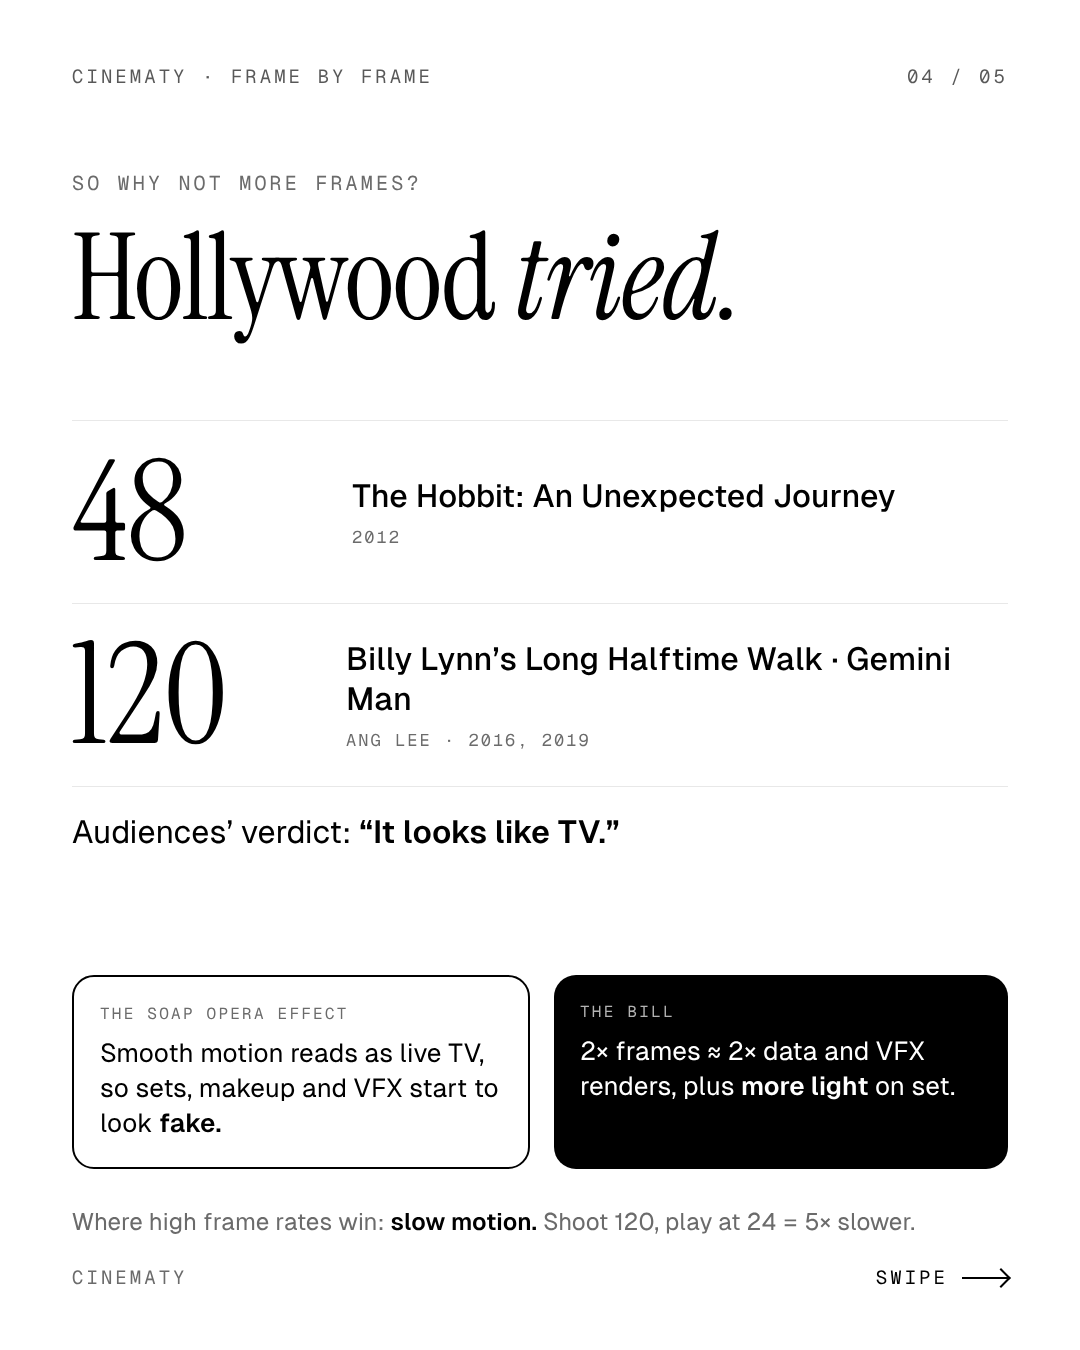
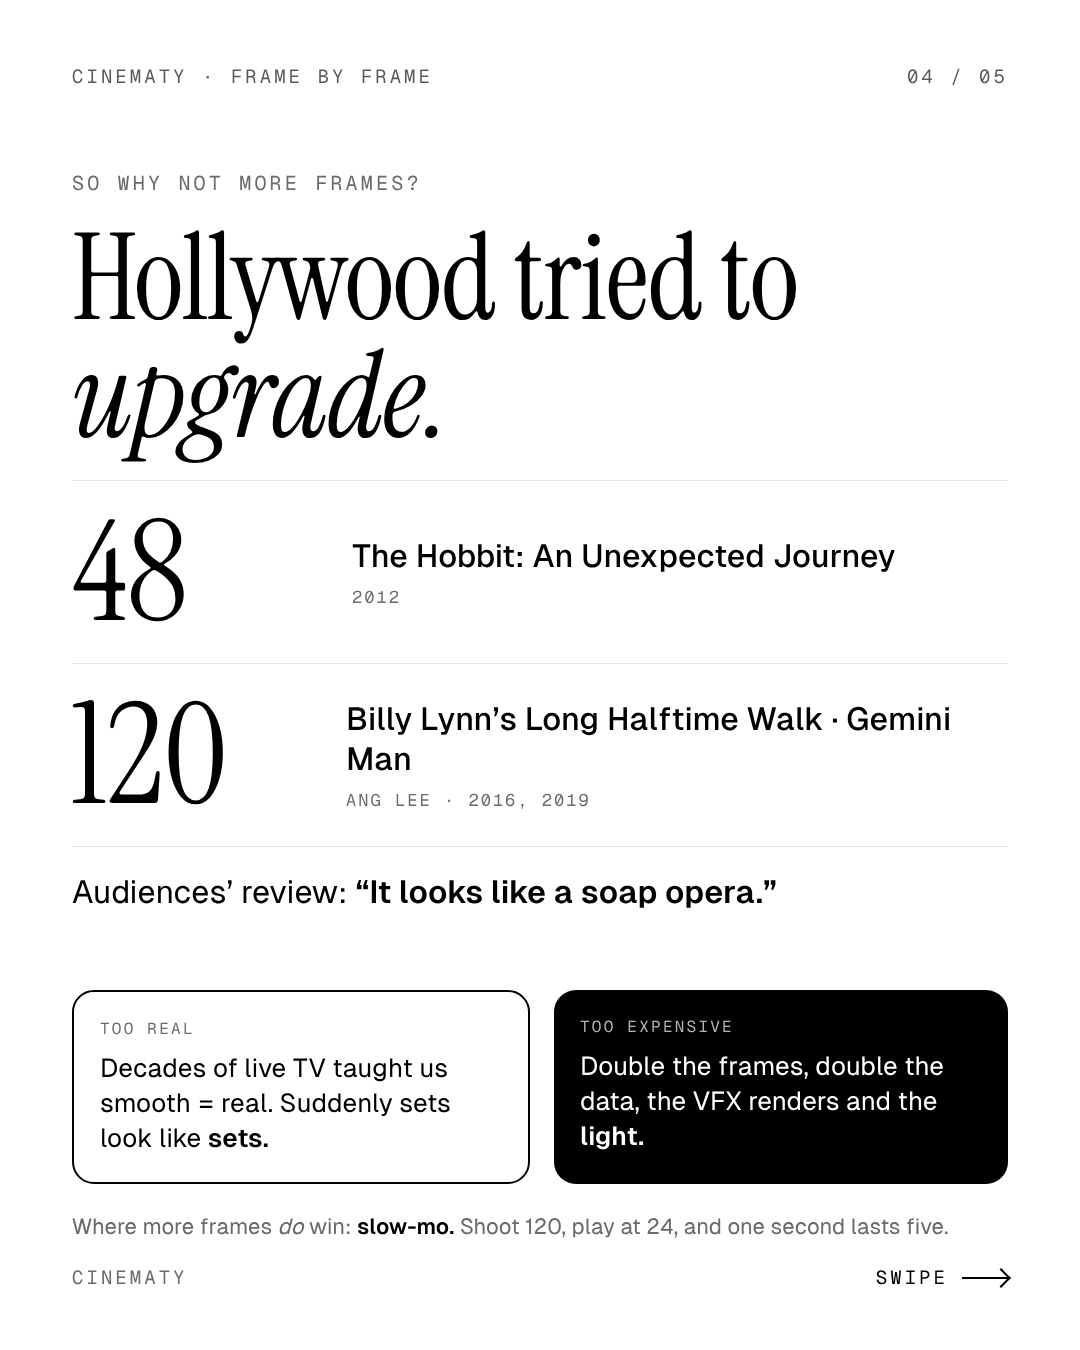
Rewrite 24 FPS carousel copy
Claude-Session: https://claude.ai/code/session_01BJHEHcebmitYWhUtLE2eHo

diff --git a/carousel/24fps/carousel5.html b/carousel/24fps/carousel5.html
@@ -38,8 +38,8 @@ i{font-style:italic}
  <div class="top"><span>Cinematy · Frame by Frame</span><span>01 / 05</span></div>
  <div class="a serif" style="left:64px;top:170px;font-size:560px;line-height:.8">24</div>
  <div class="a mono" style="left:76px;top:640px;font-size:22px;opacity:.7">Frames per second</div>
- <div class="a serif" style="left:72px;top:720px;font-size:104px;width:940px">Why cinema runs at 24 frames a second.</div>
- <div class="a serif" style="left:72px;top:950px;font-size:104px"><i>And why not more?</i></div>
+ <div class="a serif" style="left:72px;top:710px;font-size:100px;width:940px">Your phone shoots 120 frames a second. <i>Cinema still shoots 24.</i></div>
+ <div class="a sans" style="left:72px;top:1030px;font-size:30px;color:#B3B3B3">Here’s why, and why Hollywood couldn’t change it.</div>
  <div class="strip" id="cstrip" style="left:-20px;top:1110px;width:1200px;height:150px"></div>
  <div class="bot" style="bottom:40px"><span></span><span class="sw">Swipe <span></span></span></div>
 </section>
@@ -47,33 +47,33 @@ i{font-style:italic}
 <!-- 2 HISTORY -->
 <section class="s paper" id="s2">
  <div class="top"><span>Cinematy · Frame by Frame</span><span>02 / 05</span></div>
- <div class="a kick grey" style="left:72px;top:170px">Where 24 came from</div>
- <div class="a serif" style="left:72px;top:220px;font-size:120px;width:940px">Blame it on <i>sound.</i></div>
- <svg class="a" style="left:72px;top:440px" width="936" height="250" viewBox="0 0 936 250">
+ <div class="a kick grey" style="left:72px;top:170px">1927 · The talkies arrive</div>
+ <div class="a serif" style="left:72px;top:220px;font-size:120px;width:940px">It was a <i>money</i> decision.</div>
+ <svg class="a" style="left:72px;top:520px" width="936" height="250" viewBox="0 0 936 250">
   <line x1="0" y1="60" x2="936" y2="60" stroke="#000" stroke-width="3" stroke-dasharray="8 8"/>
   <text x="560" y="45" font-family="GM" font-size="18" fill="#000" letter-spacing="2">AFTER 1927 · LOCKED AT 24</text>
   <polyline fill="none" stroke="#B3B3B3" stroke-width="5" stroke-linejoin="round" points="0,170 60,130 120,195 180,150 240,215 300,140 360,185 420,120 470,180 520,60 936,60"/>
   <text x="0" y="245" font-family="GM" font-size="18" fill="#6B6B6B" letter-spacing="2">SILENT ERA · HAND-CRANKED · ~16–20 FPS</text>
  </svg>
- <div class="a body" style="left:72px;top:760px;width:900px">Silent films were <b>cranked by hand</b>, so speed wandered. When talkies arrived in <b>1927</b>, sound had to stay in sync with picture at one steady speed.</div>
- <div class="a body" style="left:72px;top:1010px;width:900px">24 fps was about the slowest speed that gave decent sound, without burning expensive film. It stuck.</div>
+ <div class="a body" style="left:72px;top:830px;width:900px">Silent films were cranked by hand, drifting anywhere from 16 to 20 frames a second. Then came sound, and sound only plays right at <b>one steady speed.</b></div>
+ <div class="a body" style="left:72px;top:1060px;width:900px">Studios needed a number fast enough for clear sound and slow enough to save film. <b>24 won. A century later, it’s still winning.</b></div>
  <div class="bot"><span class="grey">Cinematy</span><span class="sw">Swipe <span></span></span></div>
 </section>
 <!-- 3 LOOK -->
 <section class="s ink" id="s3">
  <div class="top"><span>Cinematy · Frame by Frame</span><span>03 / 05</span></div>
- <div class="a kick grey" style="left:72px;top:170px">Why it still looks like cinema</div>
- <div class="a serif" style="left:72px;top:220px;font-size:130px;width:940px"><i>Motion blur.</i></div>
- <div class="a body" style="left:72px;top:400px;width:900px">The classic <b>180° shutter</b>: at 24 fps each frame is exposed for <b>1/48 of a second</b>. Movement leaves a soft smear, and your brain reads it as smooth, dreamy motion.</div>
- <div class="a" style="left:72px;top:770px;width:936px;height:420px;border:1.5px solid #2b2b2b;border-radius:24px;overflow:hidden">
+ <div class="a kick grey" style="left:72px;top:170px">Why 24 still feels like cinema</div>
+ <div class="a serif" style="left:72px;top:220px;font-size:120px;width:940px">The blur is <i>the magic.</i></div>
+ <div class="a body" style="left:72px;top:500px;width:900px">At 24 fps, each frame is exposed for <b>1/48 of a second</b>. Anything moving leaves a soft smear. That tiny imperfection is the difference between <b>a dream and a security camera.</b></div>
+ <div class="a" style="left:72px;top:800px;width:936px;height:420px;border:1.5px solid #2b2b2b;border-radius:24px;overflow:hidden">
   <div class="a mono" style="left:30px;top:26px;font-size:17px;opacity:.6">24 fps · 1/48 s</div>
   <div class="a" style="left:120px;top:110px;width:330px;height:110px;border-radius:55px;background:linear-gradient(90deg,rgba(255,255,255,0),rgba(255,255,255,.35) 45%,#fff 85%);filter:blur(4px)"></div>
   <div class="a mono" style="left:30px;top:236px;font-size:17px;opacity:.6">120 fps · 1/240 s</div>
   <div class="a" style="left:300px;top:300px;width:110px;height:110px;border-radius:50%;background:#fff;opacity:.18"></div>
   <div class="a" style="left:340px;top:300px;width:110px;height:110px;border-radius:50%;background:#fff;opacity:.35"></div>
   <div class="a" style="left:380px;top:300px;width:110px;height:110px;border-radius:50%;background:#fff"></div>
-  <div class="a sans" style="left:560px;top:130px;font-size:26px;width:340px;line-height:1.4">Smooth, painterly movement.</div>
-  <div class="a sans" style="left:560px;top:320px;font-size:26px;width:340px;line-height:1.4;color:#B3B3B3">Crisp and hyper-real. Feels like live video.</div>
+  <div class="a sans" style="left:560px;top:130px;font-size:26px;width:340px;line-height:1.4">Soft. Dreamy. Cinema.</div>
+  <div class="a sans" style="left:560px;top:320px;font-size:26px;width:340px;line-height:1.4;color:#B3B3B3">Sharp. Clinical. Live TV.</div>
  </div>
  <div class="bot"><span></span><span class="sw">Swipe <span></span></span></div>
 </section>
@@ -81,21 +81,21 @@ i{font-style:italic}
 <section class="s paper" id="s4">
  <div class="top"><span>Cinematy · Frame by Frame</span><span>04 / 05</span></div>
  <div class="a kick grey" style="left:72px;top:170px">So why not more frames?</div>
- <div class="a serif" style="left:72px;top:220px;font-size:120px;width:940px">Hollywood <i>tried.</i></div>
+ <div class="a serif" style="left:72px;top:220px;font-size:120px;width:940px">Hollywood tried to <i>upgrade.</i></div>
  <div class="a" id="hfr" style="left:72px;top:440px;width:936px"></div>
- <div class="a" style="left:72px;top:975px;width:936px;display:flex;gap:24px">
-  <div style="flex:1;border:2px solid #000;border-radius:22px;padding:26px"><div class="mono" style="font-size:16px;color:#6B6B6B">The soap opera effect</div><div class="sans" style="font-size:26px;line-height:1.35;margin-top:12px">Smooth motion reads as live TV, so sets, makeup and VFX start to look <b>fake.</b></div></div>
-  <div style="flex:1;background:#000;color:#fff;border-radius:22px;padding:26px"><div class="mono" style="font-size:16px;color:#B3B3B3">The bill</div><div class="sans" style="font-size:26px;line-height:1.35;margin-top:12px">2× frames ≈ 2× data and VFX renders, plus <b>more light</b> on set.</div></div>
+ <div class="a" style="left:72px;top:990px;width:936px;display:flex;gap:24px">
+  <div style="flex:1;border:2px solid #000;border-radius:22px;padding:26px"><div class="mono" style="font-size:16px;color:#6B6B6B">Too real</div><div class="sans" style="font-size:26px;line-height:1.35;margin-top:12px">Decades of live TV taught us smooth = real. Suddenly sets look like <b>sets.</b></div></div>
+  <div style="flex:1;background:#000;color:#fff;border-radius:22px;padding:26px"><div class="mono" style="font-size:16px;color:#B3B3B3">Too expensive</div><div class="sans" style="font-size:26px;line-height:1.35;margin-top:12px">Double the frames, double the data, the VFX renders and the <b>light.</b></div></div>
  </div>
- <div class="a sans grey" style="left:72px;top:1205px;width:936px;font-size:24px;line-height:1.4">Where high frame rates win: <b style="color:#000">slow motion.</b> Shoot 120, play at 24 = 5× slower.</div>
+ <div class="a sans grey" style="left:72px;top:1212px;width:936px;font-size:22px;line-height:1.4;white-space:nowrap">Where more frames <i>do</i> win: <b style="color:#000">slow-mo.</b> Shoot 120, play at 24, and one second lasts five.</div>
  <div class="bot"><span class="grey">Cinematy</span><span class="sw">Swipe <span></span></span></div>
 </section>
 <!-- 10 CTA -->
 <section class="s paper" id="s5">
  <div class="top"><span>Cinematy · Frame by Frame</span><span>05 / 05</span></div>
  <div class="a" id="logo10" style="left:390px;top:150px;width:300px"></div>
- <div class="a serif" style="left:0;right:0;top:370px;text-align:center;font-size:104px">24 frames. One crew.<br><i>Your film.</i></div>
- <div class="a body" style="left:120px;right:120px;top:620px;text-align:center">Talk lenses, frame rates and 2 a.m. edits with Hyderabad’s filmmakers.</div>
+ <div class="a serif" style="left:0;right:0;top:370px;text-align:center;font-size:104px">Cinema runs on 24 frames.<br><i>We run on people.</i></div>
+ <div class="a body" style="left:120px;right:120px;top:620px;text-align:center">Hyderabad’s filmmakers, finally in one place. Crew, projects, screenings and the 2 a.m. edit-room chat.</div>
  <div class="a" style="left:0;right:0;top:770px;display:flex;justify-content:center;align-items:center;gap:56px">
   <div id="qr10" style="width:300px;height:300px;padding:22px;border:2px solid #000;border-radius:24px"></div>
   <div>
@@ -104,14 +104,14 @@ i{font-style:italic}
    <div style="display:inline-flex;align-items:center;gap:16px;border:2px solid #000;border-radius:999px;padding:14px 28px"><span style="width:16px;height:16px;border-radius:50%;background:#D92D20;display:inline-block"></span><span class="mono" style="font-size:30px;text-transform:none;letter-spacing:.06em">cinematy.in</span></div>
   </div>
  </div>
- <div class="a sans grey" style="left:0;right:0;top:1170px;text-align:center;font-size:28px">What frame rate do you shoot at? Tell us below 👇</div>
+ <div class="a sans grey" style="left:0;right:0;top:1170px;text-align:center;font-size:28px">Team 24 or team 120? Fight it out below 👇</div>
  <div class="bot"><span class="grey">Save · Share with your crew</span><span class="grey">Link in bio</span></div>
 </section>
 
 <script>
 function E(p,tag,css,html){const e=document.createElement(tag);if(css)e.style.cssText=css;if(html!=null)e.innerHTML=html;p.appendChild(e);return e}
 const cs=document.getElementById('cstrip');for(let i=1;i<=24;i++){const f=E(cs,'div','width:110px;height:90px');f.className='fr';f.textContent=String(i).padStart(2,'0')}
-const h=document.getElementById('hfr');h.style.top='420px';[['48','The Hobbit: An Unexpected Journey','2012'],['120','Billy Lynn’s Long Halftime Walk · Gemini Man','Ang Lee · 2016, 2019']].forEach(([n,t,y])=>{const r=E(h,'div','display:flex;align-items:center;gap:40px;padding:28px 0;border-top:1.5px solid #E8E8E8');E(r,'div','font-family:IS;font-size:140px;width:240px;line-height:.9',n);const c=E(r,'div','');E(c,'div','font-family:Geist;font-size:32px;font-weight:500;line-height:1.25',t);E(c,'div','font-family:GM;font-size:17px;letter-spacing:.12em;color:#6B6B6B;margin-top:10px;text-transform:uppercase',y)});
-E(h,'div','font-family:Geist;font-size:32px;padding-top:26px;border-top:1.5px solid #E8E8E8','Audiences’ verdict: <b>“It looks like TV.”</b>');
+const h=document.getElementById('hfr');h.style.top='480px';[['48','The Hobbit: An Unexpected Journey','2012'],['120','Billy Lynn’s Long Halftime Walk · Gemini Man','Ang Lee · 2016, 2019']].forEach(([n,t,y])=>{const r=E(h,'div','display:flex;align-items:center;gap:40px;padding:28px 0;border-top:1.5px solid #E8E8E8');E(r,'div','font-family:IS;font-size:140px;width:240px;line-height:.9',n);const c=E(r,'div','');E(c,'div','font-family:Geist;font-size:32px;font-weight:500;line-height:1.25',t);E(c,'div','font-family:GM;font-size:17px;letter-spacing:.12em;color:#6B6B6B;margin-top:10px;text-transform:uppercase',y)});
+E(h,'div','font-family:Geist;font-size:32px;padding-top:26px;border-top:1.5px solid #E8E8E8','Audiences’ review: <b>“It looks like a soap opera.”</b>');
 window.init=(logo,qr)=>{document.getElementById('logo10').innerHTML=logo.replace(/style="color:[^"]*"/,'').replace(/width="[^"]*"/,'width="100%"').replace(/height="[^"]*"/,'height="auto"');document.getElementById('qr10').innerHTML=qr};
 </script></body></html>
